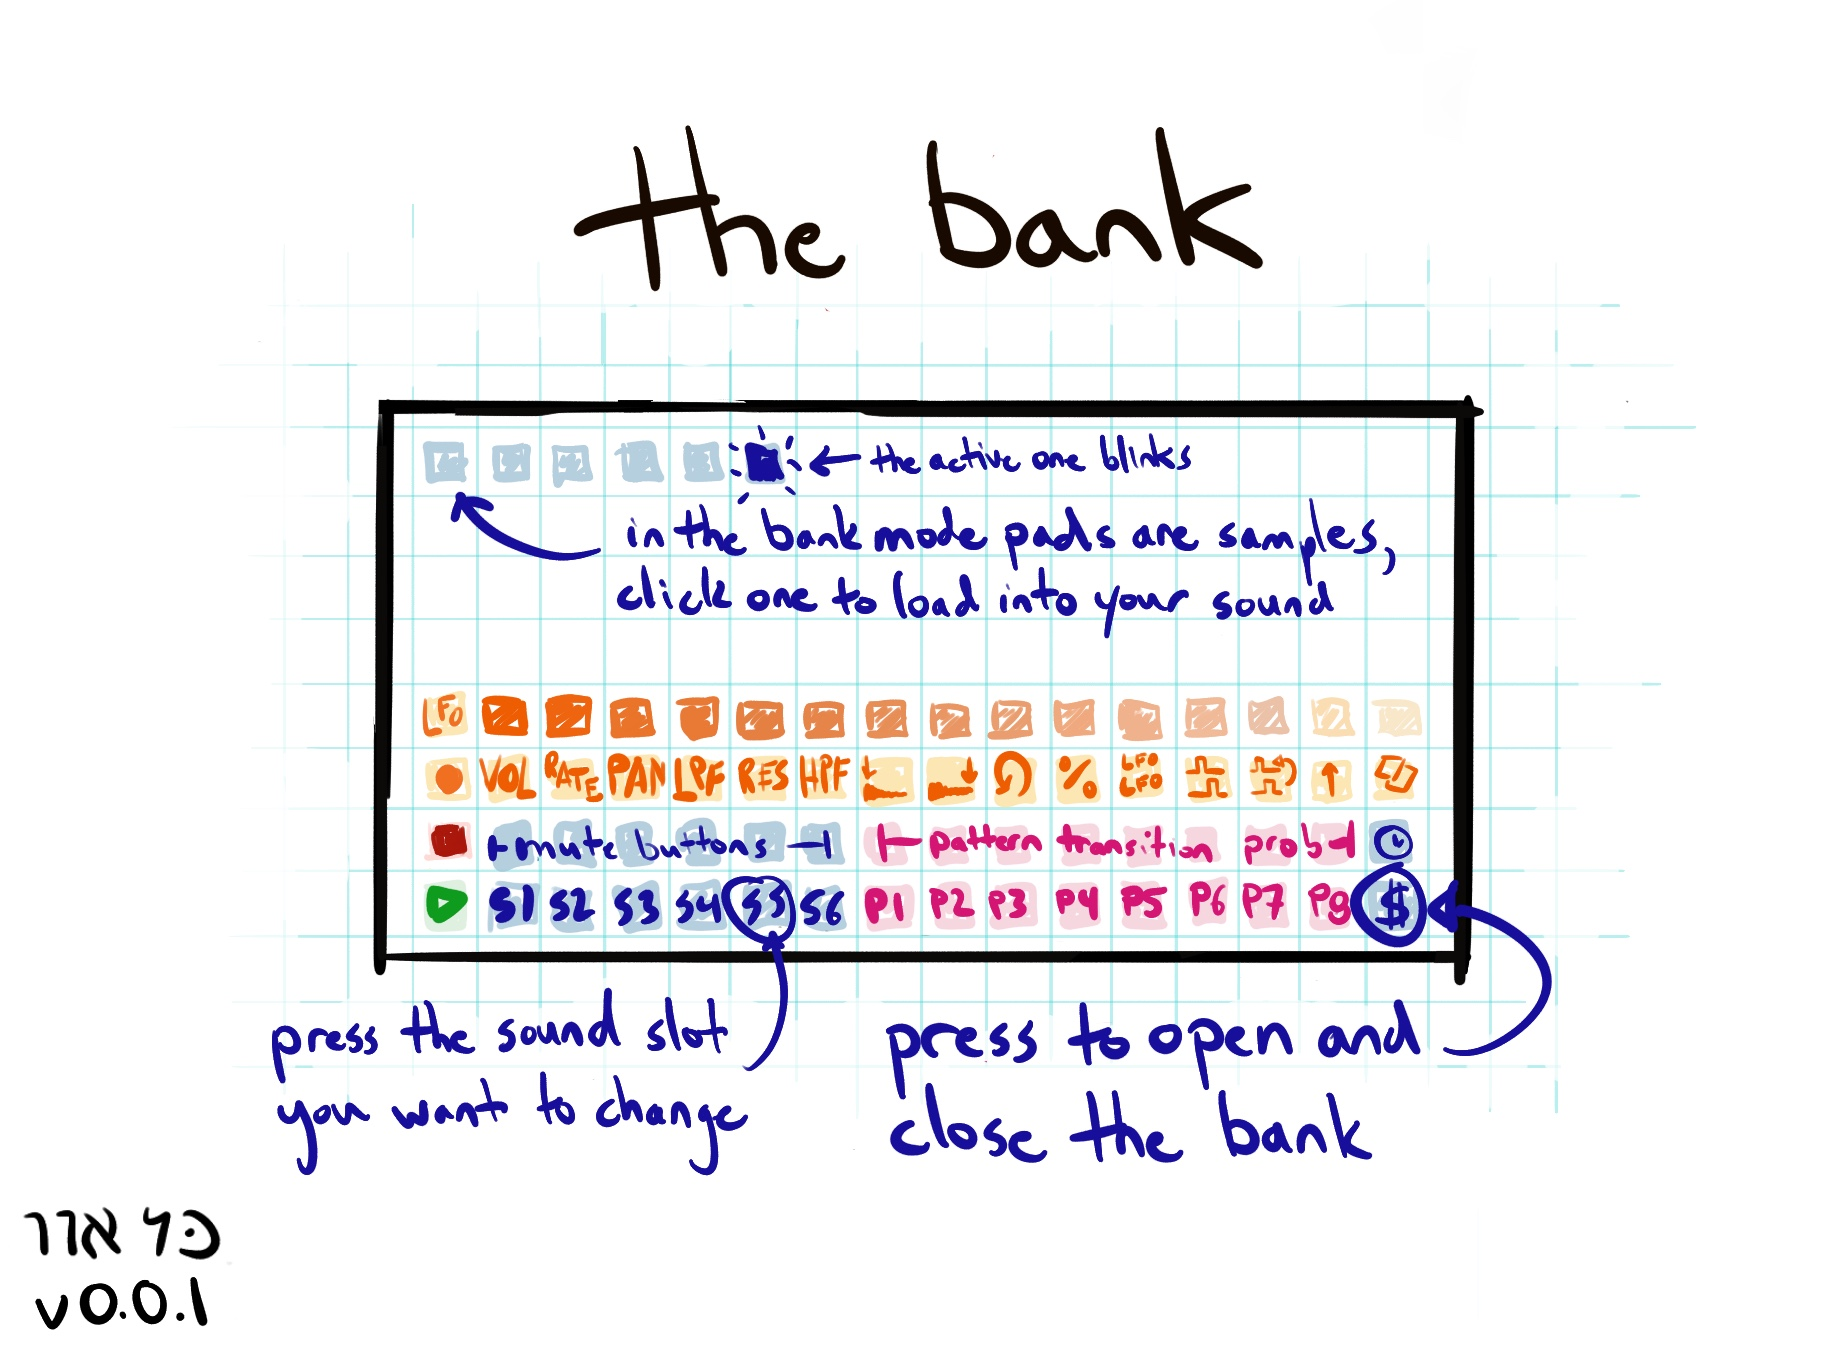
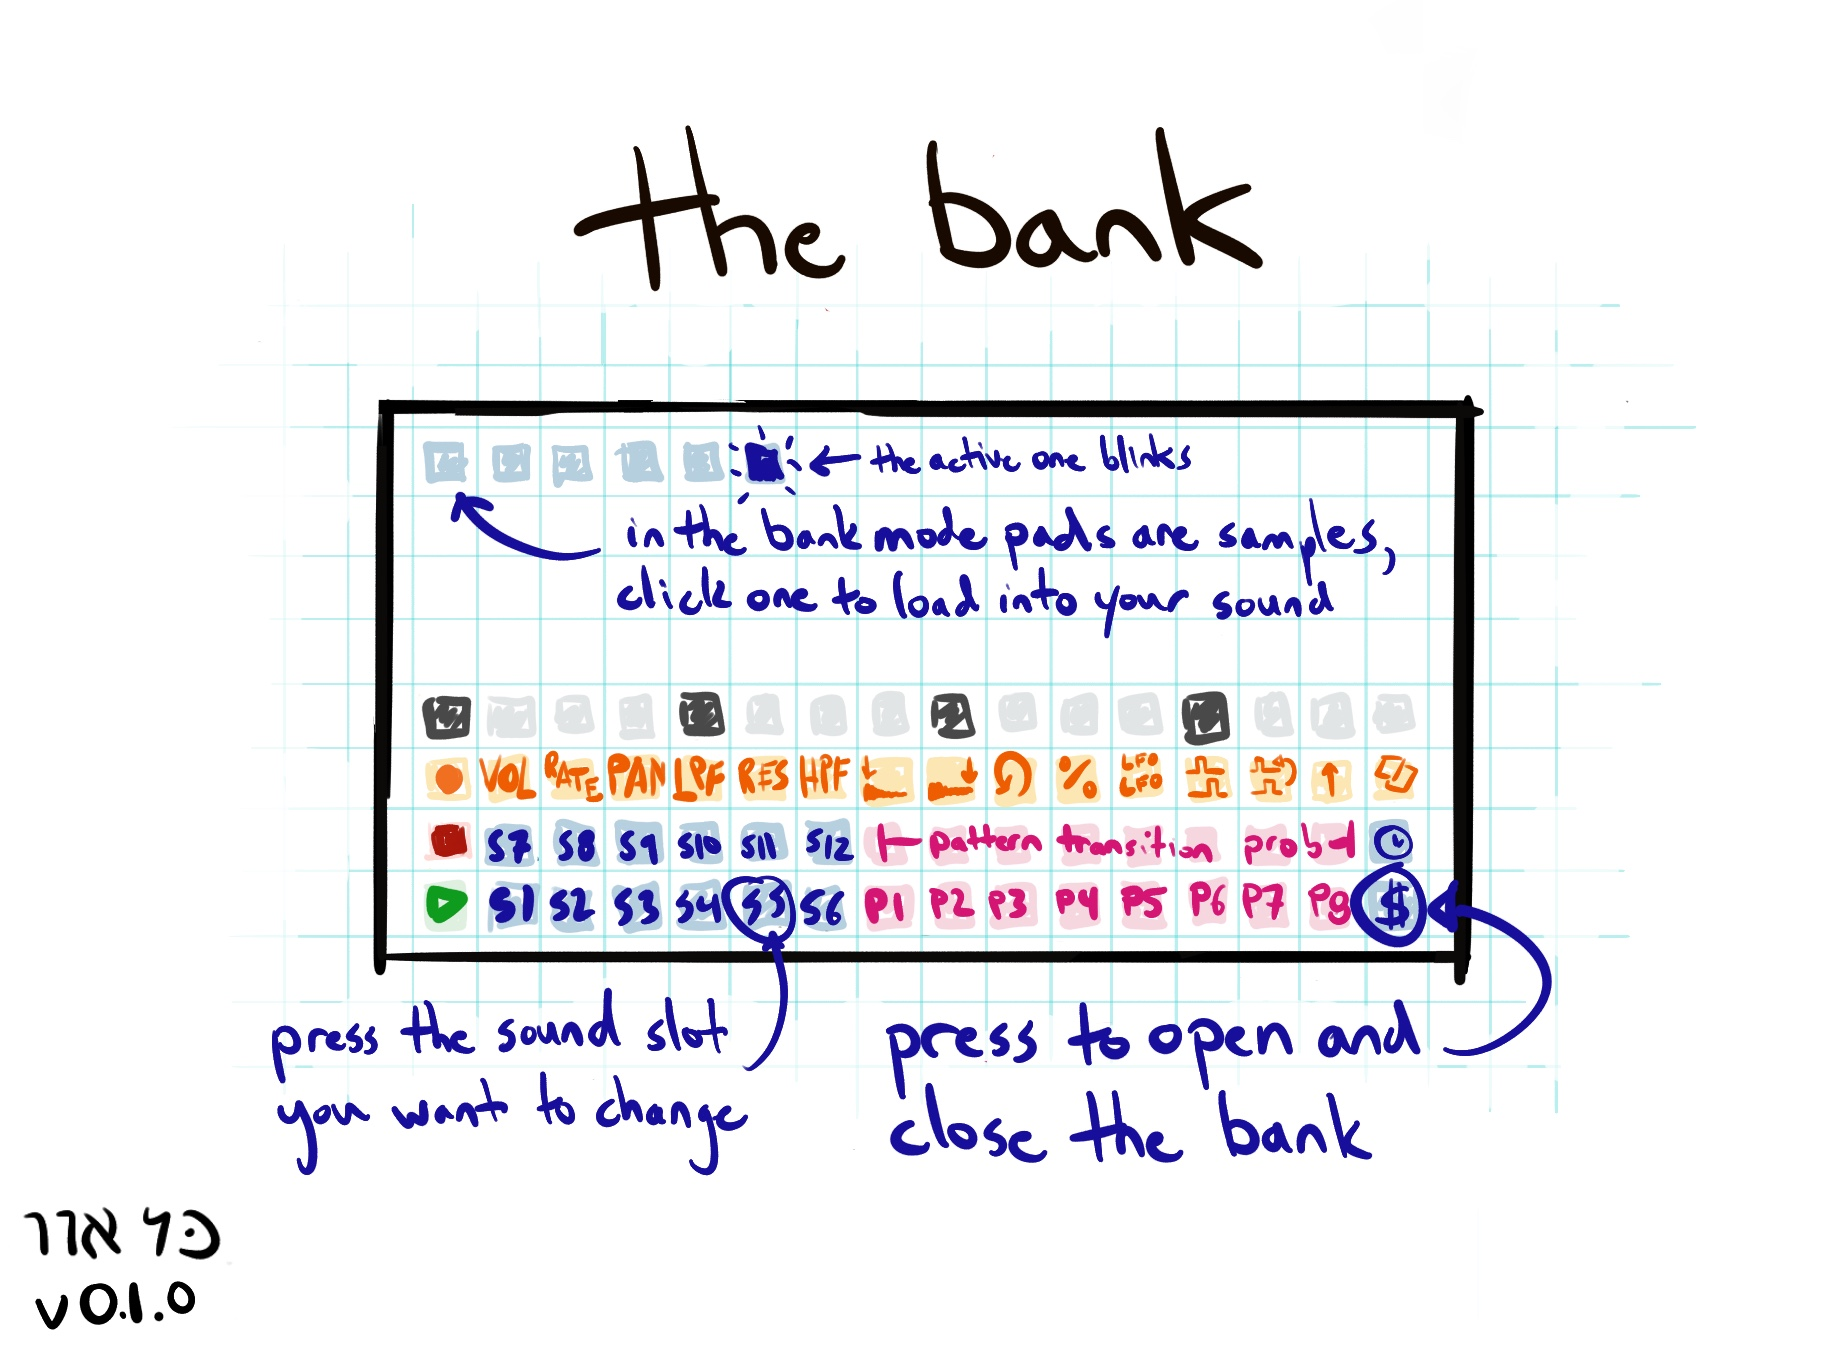
update images

Changed region(s): [[0.2171, 0.4963, 0.7753, 0.5583], [0.2481, 0.5894, 0.4652, 0.6514], [0.062, 0.9306, 0.124, 0.9926]]

diff --git a/docs/index.html b/docs/index.html
@@ -133,7 +133,7 @@ parameter will be pushed onto any activated step
 
 samples are stereo `.wav` files stored in
 
-`~/dust/audio/kolor/bank[1-6]`
+`~/dust/audio/kolor/bank[1-12]`
 
 each bank shows 32 samples in alphabetical order
 
